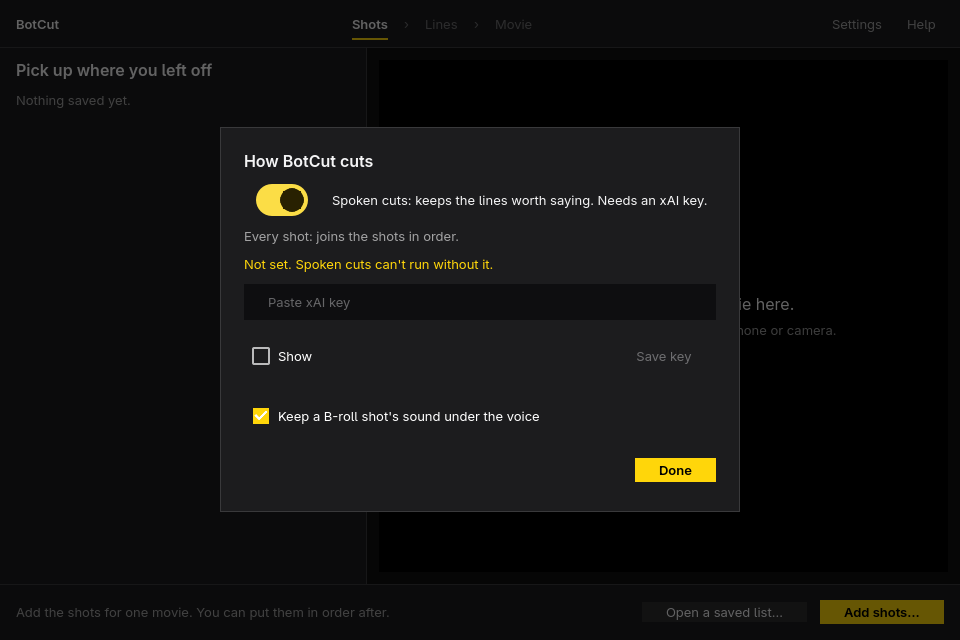
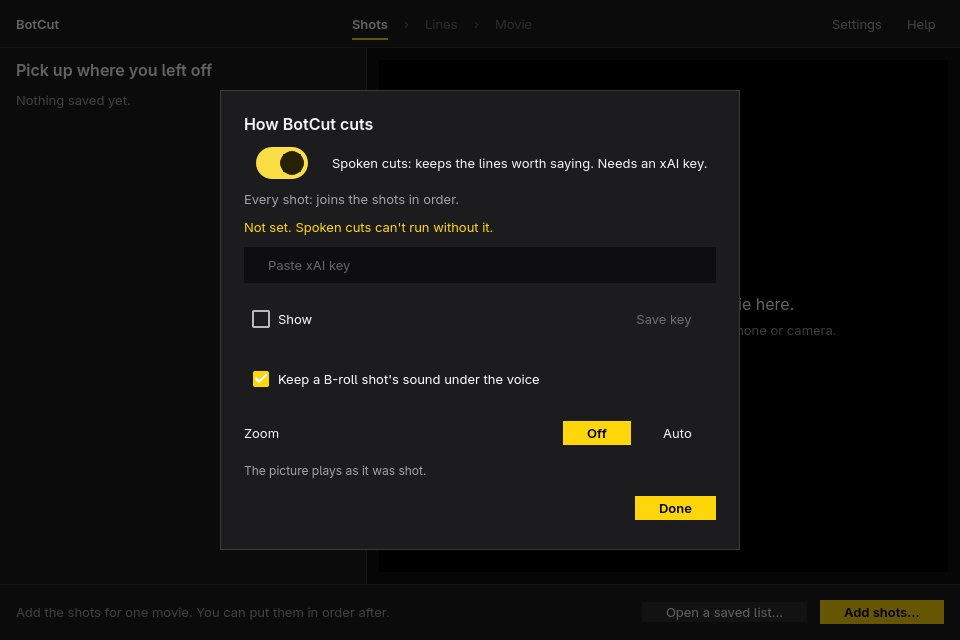
Say what changed: second cameras, Auto zoom, and renders that reuse their pieces.

diff --git a/cli/README.md b/cli/README.md
@@ -8,11 +8,21 @@ uv run botcut-cli run a.mp4 b.mp4 c.mp4 --out out/
 uv run botcut-cli run shots.txt --out out/ --mode assemble
 ```
 
+The package needs `numpy` and `opencv-python-headless` beside `requests`. `uv` installs them on the first run; a `botcut-cli` installed some other way has to be installed again.
+
 `--mode speech` (the default) keeps the moments that match `--intent`. The default intent keeps each moment, drops flubs and true retakes, and keeps a beat that appears once. Wording about repeated takes uses the retake prompt instead. `--decide` writes `cuts.json` and stops before ffmpeg. `botcut-cli render out/` encodes after a line is restored. `--mode assemble` keeps every file from start to end, in the order given, and does not call speech-to-text or the model. Use it for riding and any clip that should appear even when nobody is talking.
 
 `--b-roll-file PATH` marks one of the files as B-roll. Give it once per file. A B-roll file is not transcribed and never becomes a line. It is sliced into beats of one to four seconds at its scene changes, one still is taken per beat, and the model lays runs over the spoken lines the way an editor would: a run starts on a beat and goes on for 3 to 12 seconds over one or more consecutive kept lines, ending on a line, to hide a cut, show what the words describe, or rest the viewer. It sees the movie line, every line with its length, where the cuts fall, and a still per beat. It returns beat and line ids, a reason of a few words per run, and one or two sentences for the person. The first and last kept lines stay on the speaker, runs never sit back to back, and beats go up so the footage moves forward. The voice always keeps playing. `--b-roll-sound mix` (the default) plays the B-roll sound at a quarter under the voice. `--b-roll-sound voice` plays the voice alone. A B-roll file with no sound track is fine. A spoken file without one is still refused. A card cannot be B-roll, and a `--b-roll-file` that is not one of the files stops the run. `--mode assemble` ignores the mark, because it plays every file in order with its own sound.
 
-A single `.txt` argument is a shot list, one path per line. A line that starts with `b-roll ` marks that file. Blank lines and `#` comments are skipped.
+### A second camera
+
+Two files that filmed the same take are two cameras on it. `run` finds them itself: a later file that heard the same sound as an earlier one for at least half its length is that shot's second camera. `--angle-file PATH` marks one by hand, once per file, and is believed on a weaker match; a marked file that matches no shot stops the run with "Could not line up". The first file is nobody's second camera, and a file is B-roll or a second camera, not both.
+
+The two are lined up by sound, in `sync.py`, with no model: the loudness of each a hundred times a second gives the shift to a hundredth of a second, the waveforms near it give the rest, and a camera that runs a little slow is followed across a long take. What was found is kept in `out/work/cameras.json`. A second camera is not transcribed, never becomes a line, and is never heard. Its clip row in `cuts.json` carries `"role": "angle"`, `of` (the shot it belongs to), `offset` and `drift` (a moment `t` of that shot is at `t + offset + drift * t` in this file), and `view` when the model was shown a still of each camera and said which is `wide`, `close`, or `side`.
+
+Where the picture changes is decided by rule in `angles.py` and written as `angles`, runs of lines like the B-roll runs: `{clip, of, line, through, reason, still}`. The view changes only between lines, only after it has been held, and only to a camera that was running for the whole line: at a jump cut (`hides a cut`), at the first line of a beat, on a line named in `close` when one camera is the close view, and after a long hold at the end of a sentence. It is worked out again on every `render`, so a line dropped later still has its jump hidden. `cameras` holds what was asked for and is kept: `pace` (`calm` holds 6 seconds and changes after 30, `normal` 4 and 18, `busy` 2.5 and 10), `favor` (the camera to stay on most), `stay` (line ids held on the first camera), and `off`. `revise` returns `cameras` (`same`, `calm`, `normal`, `busy`, `off`) and `favor`. B-roll over a line wins the picture from the second camera. `angles_reply` is one sentence about what was done.
+
+A single `.txt` argument is a shot list, one path per line. A line that starts with `b-roll ` marks that file, and one that starts with `angle ` marks a second camera. Blank lines and `#` comments are skipped.
 
 `out/cuts.json` is the cut list. A B-roll clip row carries `"role": "broll"`, and a cover is a run: `{clip, line, through, start, end, reason, still}`, the first and last line ids, the window inside the B-roll file, the model's reason, and the starting beat's still. `covers_reply` is the model's sentence about what it laid. `revise` sees the beats and the runs and returns the full list of runs to keep. `out/rough_cut.mp4` is the listening render. Word timestamps are cached at `out/work/<i>-<stem>.<stt>.words.json`. An older `out/work/<i>-<stem>.words.json` still counts as an xAI cache hit. Beats are cached at `out/work/<i>-<stem>.beats.json`. A second run prints `cache hit` and does not call speech-to-text again.
 
@@ -22,7 +32,7 @@ uv run botcut-cli run a.mp4 --out out/ --max-pause 0.8 --no-snap
 uv sync --extra local
 ```
 
-`--stt` is `xai` (default) or `local`. Local transcription is faster-whisper on CPU int8 and needs `uv sync --extra local`. `--max-pause` (default `0.8`) splits a kept range when a silence inside it is longer than that. `--no-snap` leaves the padded edges where they are. Otherwise an edge that lands in silence moves to 0.10 s before speech or 0.15 s after it, and a snap that would leave less than 0.3 s is skipped.
+`--stt` is `xai` (default) or `local`. Local transcription is faster-whisper on CPU int8 and needs `uv sync --extra local`. `--max-pause` (default `0.8`) splits a kept range when a silence inside it is longer than that. A silence is sound under -35 dB, or, in a shot with more going on behind the voice, under 8 dB above that shot's own quiet end, and never within 12 dB of the voice. `--no-snap` leaves the padded edges where they are. Otherwise an edge that lands in silence moves to 0.10 s before speech or 0.15 s after it, and a snap that would leave less than 0.3 s is skipped.
 
 ## Environment
 
@@ -36,7 +46,11 @@ uv sync --extra local
 
 Speech-to-text is `grok-voice-transcribe-2.0` with filler words kept. Only the sound is sent: each shot's audio is written to `out/work/<n>-<name>.flac` at 16 kHz mono, and that file is what is uploaded. The model chooses utterance ids. It does not choose timestamps. One JPEG from the middle of each line is sent with the transcript, and stored under `out/work/stills/`. A missed frame does not stop the cut. The reason may mention the picture. A dropped connection, a timeout, or a brief server error is tried again. A rejected key or body is not.
 
-A line can also be cut inside. `word_cuts` finds filler sounds (um, uh, er, hmm) and a phrase of one to three words said twice in a row, and works out the seconds each spans from the word times, leaving 40 ms of air on each side and skipping anything under 0.15 seconds. The model is shown them by number on the line, `{cuts: 0="um", 1="we were"}`, and returns the numbers to take for each line it keeps. Every cut on offer is written to the line in `cuts.json` as `cuts: [{from, through, start, end, reason, cut}]`, where `cut` says whether it is taken, so the window can flip one and `render` applies it. `revise` returns `fillers`: `cut` takes them all, `keep` leaves them all, `same` changes none. Kept neighbors in the same clip merge when the gap before padding is under 1 second. Each range is then padded by 0.25 seconds before and 0.40 seconds after, and clamped to the clip. The later utterance's reason is the one stored on a merged range. The sound is cleaned and leveled on every render: each spoken shot is measured once (`work/<n>-<name>.loudness.json`) and given the gain that matches it to the others, by at most +20 dB or -12 dB; the joined sound goes through `highpass=f=70,afftdn=nr=8:nf=-50:tn=1`; and a first pass with no picture measures it so `loudnorm` can set -16 LUFS, -1.5 dBTP with one linear gain. A B-roll shot's own sound is not matched. It stays a bed at a quarter of its level. A cut too quiet to measure is cleaned and left at its own level. The rough cut keeps the camera level, fades up from black, and fades out to black, and joins stay 20 ms inside a file and 120 ms across a dip unless `--scene-transition off`. The app remembers that choice for every movie.
+A line can also be cut inside. Besides the cuts on offer below, the model returns `trim` for a line it keeps: words copied from the line that should come out, such as "you know" or the abandoned start of a thought. They are found in the line, timed from the word times, and written among the line's `cuts` with reason `trimmed` and `cut: true`. Words that are not in the line, that are most of it, or that take half of a cut already on offer, are left alone. A piece under 0.6 seconds with nobody speaking in it, like the padding in front of a line whose first "um" was cut, is left out of the movie.
+
+`word_cuts` finds filler sounds (um, uh, er, hmm) and a phrase of one to three words said twice in a row, and works out the seconds each spans from the word times, leaving 40 ms of air on each side and skipping anything under 0.15 seconds. The model is shown them by number on the line, `{cuts: 0="um", 1="we were"}`, and returns the numbers to take for each line it keeps. Every cut on offer is written to the line in `cuts.json` as `cuts: [{from, through, start, end, reason, cut}]`, where `cut` says whether it is taken, so the window can flip one and `render` applies it. `revise` returns `fillers`: `cut` takes them all, `keep` leaves them all, `same` changes none. Kept neighbors in the same clip merge when the gap before padding is under 1 second. Each range is then padded by 0.25 seconds before and 0.40 seconds after, and clamped to the clip. The later utterance's reason is the one stored on a merged range. The sound is cleaned and leveled on every render: each spoken shot is measured once (`work/<n>-<name>.loudness.json`) and given the gain that matches it to the others, by at most +20 dB or -12 dB; the joined sound goes through `highpass=f=70,afftdn=nr=8:nf=-50:tn=1`; and a first pass with no picture measures it so `loudnorm` can set -16 LUFS, -1.5 dBTP with one linear gain. A B-roll shot's own sound is not matched. It stays a bed at a quarter of its level. A cut too quiet to measure is cleaned and left at its own level. The rough cut keeps the camera level, fades up from black, and fades out to black. A join inside a file is a crossfade: each side reaches 12 ms into the other. Across a dip the sound fades 120 ms down and up, unless `--scene-transition off`.
+
+The movie is made in pieces. The sound is put together in one pass, and each piece of picture is encoded to its own file under `out/work/pieces`, named by what it shows, and joined without encoding again. Every piece is a whole number of frames and starts on a frame of its source, so picture and sound stay together across any number of joins. A later `render` of the same cut makes only the pieces that changed and prints `Made 1 of 80 pieces again.` A piece no render has used for two days is removed. `BOTCUT_RENDER=graph` renders the older way, as one filter graph in one encode. The app remembers that choice for every movie.
 
 A dropped line that is not a near-duplicate of a kept line prints `unique? id N: ...`. The line stays dropped.
 
@@ -48,7 +62,9 @@ A name or a product word is where a transcript goes wrong: "Telnyx" comes back a
 
 A cut ends with one line saying where the time went, longest first: `Took 6m39s: render 4m45s, choose 1m16s, stills 28s, listen 9s.` The seconds for every stage are kept in `out/work/seconds.json`: `read`, `beats`, `listen` (audio, transcript, silences), `stills` (stills and the speaker's face), `outline`, `choose`, `proof`, `covers`, `level`, and `render`. A later `render` of the same cut replaces its own stages there and leaves the rest.
 
-A cut asks the model three things, in order. First it reads every line of the shoot at once, as words only, and returns an outline: the beats, the groups of lines that say the same thing however far apart, one line the movie could open on, and the length the movie sentence asks for ("a ninety second update" is 90; no length is 0). A shoot under six lines has no outline. Then it chooses lines, as before, and each request is shown the beats, the retake groups that touch its lines with the words of the takes it cannot see, and, when a length was asked for, its share of it. When there are more stills than one request carries, retakes get them first. Last it reads the cut back as a viewer gets it: kept lines with their lengths, a `— cut —` row at each join, dropped lines in place, and what `check.py` noticed. It returns changes, not a new list: ids to drop, ids to put back, cut numbers to take, and one or two sentences that open the chat (`cut_reply`). A line it does not name stays as it was. With no length asked for, a proof that would take out more than 30 percent of the kept seconds is not applied. If the outline or the proof cannot be had, the cut goes on without it and prints `Cutting without an outline` or `Kept the cut as first made`.
+A shoot of 150 lines or fewer is read and cut in one request: the outline below and the keep list come back together, and the stage is `choose`. `BOTCUT_FOLD=0` keeps the two apart. A longer shoot is outlined while its stills are read, then chosen in parts.
+
+Otherwise a cut asks the model three things, in order. First it reads every line of the shoot at once, as words only, and returns an outline: the beats, the groups of lines that say the same thing however far apart, one line the movie could open on, and the length the movie sentence asks for ("a ninety second update" is 90; no length is 0). A shoot under six lines has no outline. Then it chooses lines, as before, and each request is shown the beats, the retake groups that touch its lines with the words of the takes it cannot see, and, when a length was asked for, its share of it. When there are more stills than one request carries, retakes get them first. Last it reads the cut back as a viewer gets it: kept lines with their lengths, a `— cut —` row at each join, dropped lines in place, and what `check.py` noticed. It returns changes, not a new list: ids to drop, ids to put back, cut numbers to take, and one or two sentences that open the chat (`cut_reply`). A line it does not name stays as it was. With no length asked for, a proof that would take out more than 30 percent of the kept seconds is not applied. If the outline or the proof cannot be had, the cut goes on without it and prints `Cutting without an outline` or `Kept the cut as first made`.
 
 The proof may also name one kept line for the movie to open on. `cuts.json` then carries `hook`, that line's id, and its piece is first in `segments` with `"hook": true`. The line leaves its place; nothing else moves, and `lines` stays in the order they were said. B-roll never runs across it, captions follow the new order, and the short is measured in the body of the movie. Dropping that line, or **Put it back** on its row, removes `hook`.
 
@@ -96,7 +112,9 @@ uv run botcut-cli short out/cuts.json
 
 ### Zoom
 
-`run` and `render` take `--zoom off|cuts|push|lines`. The default is `off`: every piece plays as shot. The other three move in on the speaker's face, and leave B-roll, cards, rotated shots, and shots under 1080 lines as shot.
+`run` and `render` take `--zoom off|auto|cuts|push|lines`. The default is `off`: every piece plays as shot. The others move in on the speaker's face, and leave B-roll, a second camera, cards, rotated shots, and shots under 1080 lines as shot. The face is found in the still of each line by a small detector that runs on this machine (`botcut/data`), kept in `work/faces.json`, and the nearest one in time is what a piece is framed on.
+
+- `auto`: the three below together, as two framings, wide and a fifth closer. The picture goes from one to the other at a join between lines once it has been held 4 seconds; a line named in `close` is tight; a wide stretch of 8 seconds or more is given the slow push; and the speaker comes back wide from B-roll, another camera, or another shot. This is what the window's **Auto** is.
 
 - `cuts`: across a join inside one shot the picture goes from wide to 1/1.12 of the frame, or back, so a jump cut reads as a change of shot. The framing never changes at a cut inside a line, such as an "um" taken out, and is held at least 4 seconds. A cut to another shot starts wide.
 - `push`: each stretch between joins moves in by half a percent a second, up to 8 percent, toward the face, and starts wide again at the next join between lines. Across a cut inside a line it carries on from where it was. The picture is resampled between pixels on every frame (`perspective`, `eval=frame`), so the move does not step. It is the slowest to render: about 2.4 times the plain render on 4K.
@@ -115,8 +133,10 @@ uv run botcut-cli bench list
 
 `bench save` keeps a finished cut as a case under `~/.local/share/botcut/bench/<name>/`: its `cuts.json` as you left it, the word and silence caches, and the line stills. It takes a movie, a project folder, or a `cuts.json`. Save a case after you have dropped, kept, and flipped what the model got wrong, because that list is what the model is scored against.
 
-`bench run` builds the lines again from the saved words, asks the model to choose, and compares. Lines are weighed by their length. `precision` is the share of the seconds the model kept that you kept too. `recall` is the share of the seconds you kept that the model kept. `flipped` counts lines kept by one and not the other. `cuts` counts the cuts inside lines, on lines both kept, where the model and you agree. `flags` counts what a viewer would notice in the model's cut, with yours beside it for scale: `twice` is a point kept twice, `leans` is a line that opens on and, but, so, or because with the line before it dropped, and `flash` is a piece shorter than 0.6 seconds. No model is asked for these. One row per run is appended to `bench/history.jsonl` with the model, a short hash of the prompt wording, and every case's numbers, and the Overall line says what the last run over the same cases scored.
+`bench run` builds the lines again from the saved words, asks the model to choose, and compares. Lines are weighed by their length. `precision` is the share of the seconds the model kept that you kept too. `recall` is the share of the seconds you kept that the model kept. `flipped` counts lines kept by one and not the other. `cuts` counts the cuts inside lines, on lines both kept, where the model and you agree. `jumps` counts the joins that show as a jump when nothing hides them: two pieces of the same shot with something taken out between lines. `flags` counts what a viewer would notice in the model's cut, with yours beside it for scale: `twice` is a point kept twice, `leans` is a line that opens on and, but, so, or because with the line before it dropped, and `flash` is a piece shorter than 0.6 seconds. No model is asked for these. One row per run is appended to `bench/history.jsonl` with the model, a short hash of the prompt wording, and every case's numbers, and the Overall line says what the last run over the same cases scored.
 
 Each real answer is saved under the case's `replies/`, filed by the exact question that got it. `--replay` reads those and calls nothing. A prompt that has changed is a different question, so a replay of it stops with "The prompt changed since it was recorded" and needs a real run.
+
+Every cut also carries `review`, the few spots worth a person's look, most telling first: `{kind, ids, text}` for two kept lines that say the same thing, a line that leans on a dropped one, a line dropped though nothing like it is kept, and a piece on screen for a blink, and one row saying how many jump cuts show when no zoom or second camera hides them. It is written again on every render.
 
 `run` prints `Used N tokens in M requests.` and stores the counts in `cuts.json` as `usage`. Set `BOTCUT_PRICE_IN` and `BOTCUT_PRICE_OUT`, in dollars per million tokens, to add the cost.

diff --git a/README.md b/README.md
@@ -49,17 +49,19 @@ Handles catch on neighbouring ranges and the playhead.
 
 The window is one plan. The steps are Shots, Lines, and Movie. There is no sidebar. Drop videos or a folder onto the picture, or press **Add shots…**. Files added together are ordered oldest first, from the file's creation time. The selected shot plays in the picture. **Move up** and **Move down** show on the current row. **Remove** takes a file out. A missing file reads **File missing**, and **Cut** stays off until you remove it.
 
-**Open a saved list…** is in the action bar at the bottom when the plan is empty. Under a shot list the actions are **Add shots…**, **Add a title card…**, and **Save list…**. **Save list…** writes the order, the cut mode, the movie line, which shots are B-roll, and any lines. Dropping that file puts them back. **Lists**, at the left of the steps, goes back to that home. A hand trim that is not in a file yet asks before it leaves.
+**Open a saved list…** is in the action bar at the bottom when the plan is empty. Under a shot list the actions are **Add shots…**, **Add a title card…**, and **Save list…**. **Save list…** writes the order, the cut mode, the movie line, which shots are B-roll or a second camera, and any lines. Dropping that file puts them back. **Lists**, at the left of the steps, goes back to that home. A hand trim that is not in a file yet asks before it leaves.
 
 Spoken cuts are on by default. The shot list then holds one sentence for the movie and a pace that reads as a sentence, from **Open · keeps long pauses** to **Frenzied · cuts every breath**. **Add a title card…** opens a dialog. The field starts empty. The placeholder is **Words on the card**. **Put it first** or **Put it last** adds a still as a shot you can move or remove.
 
 **B-roll**, on the selected row, marks that file as cover footage, and **Shot** marks it back. A B-roll file is not transcribed. The model lays it the way an editor would: in runs of three to twelve seconds over one or more lines, to hide a cut, to show what the words describe, or to rest the viewer, and never over the first line or the last. It says what it laid and why in the chat, and "less B-roll" or "none over the opening" there comes back as a change to apply. The first line of a run shows a still from the footage, the file, the run's length, and the reason; the lines under it read **B-roll goes on**. **Remove B-roll** on any of them takes the run off. Play on a line, or the kept lines in a row, shows the footage in the picture, across the cuts inside the run.
 
-**Cut** makes the movie in one press: it transcribes the shots, reads the whole shoot, keeps the lines worth saying, reads the cut back and fixes what trips, lays the B-roll, renders, and saves the result in `~/Videos/BotCut` (set `BOTCUT_MOVIES_DIR` for another folder). A length named in the movie sentence, like "a ninety second update", is the length it cuts to. The chat opens with what the editor made of the cut. It may move one line to the front to open the movie; that row reads **Opens the movie**, and **Put it back** returns it to its place. The window opens on the movie. **Lines**, in the steps at the top, is where you change it: **Drop** or **Keep** a line, and the filled button becomes **Update movie**, which renders over the same file. Clicking a line shows that moment in the picture; the timeline under the picture only shows where playback is, and a click on it seeks. Under the lines is a chat. Ask for a change, and BotCut replies with what it would do: lines dropped or put back, a new movie sentence, a new pace, or the fade. Nothing changes until you press **Apply** or answer yes. **Leave it** drops the proposal. After a change lands, **Undo** on that turn puts the previous cut back. The command is `botcut-cli revise --propose`, then `revise --apply`. Spoken cuts need an xAI key. **Settings** stores that key in the keyring and never shows it again. Turning spoken cuts off keeps every file, in this order, and does not call the model.
+**Second camera**, on the selected row, marks that file as another camera on a take a file above it filmed, and **Shot** marks it back. You rarely need it: two files that heard the same take are found by their sound when you press **Cut**, and the second then reads **Second camera** in the list. A second camera is not transcribed and its sound is never played. The picture goes to it at a jump cut, at a new beat, on a line that carries the point, or after a long hold on one view, and never inside a line. The line where it changes shows a still from that camera and the reason, and the lines under it read **Second camera goes on**. **Stay on main** on any of them keeps that stretch on the first camera. In the chat, "cut between the cameras less" or "stay on the wide" comes back as a change to apply.
+
+**Cut** makes the movie in one press: it transcribes the shots, reads the whole shoot, keeps the lines worth saying, reads the cut back and fixes what trips, lays the B-roll, renders, and saves the result in `~/Videos/BotCut` (set `BOTCUT_MOVIES_DIR` for another folder). A length named in the movie sentence, like "a ninety second update", is the length it cuts to. The chat opens with what the editor made of the cut, and under it the few spots worth a look, such as two lines that say the same thing or a line dropped though it is said nowhere else. A click on one goes to that line. It may move one line to the front to open the movie; that row reads **Opens the movie**, and **Put it back** returns it to its place. The window opens on the movie. **Lines**, in the steps at the top, is where you change it: **Drop** or **Keep** a line, and the filled button becomes **Update movie**, which renders over the same file and only makes the pieces that changed. Clicking a line shows that moment in the picture; the timeline under the picture only shows where playback is, and a click on it seeks. Under the lines is a chat. Ask for a change, and BotCut replies with what it would do: lines dropped or put back, a new movie sentence, a new pace, or the fade. Nothing changes until you press **Apply** or answer yes. **Leave it** drops the proposal. After a change lands, **Undo** on that turn puts the previous cut back. The command is `botcut-cli revise --propose`, then `revise --apply`. Spoken cuts need an xAI key. **Settings** stores that key in the keyring and never shows it again. Turning spoken cuts off keeps every file, in this order, and does not call the model.
 
 On Movie the filmstrip is the trim. It is one block per kept range, and a handle edits that range in its own file. After a handle moves, the button reads **Update movie**. **Show the file**, **Captions**, **Vertical short**, and **Save a copy…** sit beside the sentence once the movie is up to date. Captions and the short land beside the movie. Each cut is a project under `~/.local/share/botcut/projects`, so a movie opened again from Recents still has its lines and can be changed. The command-line jobs are `botcut-cli run`, `render`, `revise`, `card`, `captions`, and `short`. See `cli/README.md`.
 
-**Settings** is a dialog: spoken cuts, the xAI key, whether a B-roll shot's sound plays under the voice, and **Zoom**. Zoom is off until you choose one: **On cuts** goes a little closer at a cut between lines so the jump reads as a change of shot, **Slow push** moves in slowly on the speaker between cuts, and **Key lines** goes closer on the few lines that carry the point. Changing it makes the filled button **Update movie**. Fade is the switch under the picture. **Help** lists the shortcuts above. Quitting during a job, or with an unsaved movie or trim, asks first. **Cut again** asks before it replaces the line list.
+**Settings** is a dialog: spoken cuts, the xAI key, whether a B-roll shot's sound plays under the voice, and **Zoom**. Zoom is **Off** until you choose **Auto**. Auto goes closer at a cut between lines so the jump reads as a change of shot, goes closer on the few lines that carry the point, moves in slowly on a long wide stretch, and stays on a speaker who moves. Changing it makes the filled button **Update movie**. Fade is the switch under the picture. **Help** lists the shortcuts above. Quitting during a job, or with an unsaved movie or trim, asks first. **Cut again** asks before it replaces the line list.
 
 ## Install
 

diff --git a/CHANGELOG.md b/CHANGELOG.md
@@ -2,6 +2,22 @@
 
 User-facing changes in this fork. Dates are the days the work landed on `master`.
 
+## 2026-11-22
+
+- Two cameras on one take are cut between. Drop both files and press **Cut**: the second is found by its sound, lined up with the first to the frame, and never transcribed or heard. The picture goes to it at a jump cut, which hides the jump, at the start of a new beat, on a line that carries the point, or when one view has been on a long time. A view is held at least 4 seconds and never changes inside a line.
+- A file the cut finds to be a second camera reads **Second camera** in the shot list. **Second camera** on a selected shot marks one by hand, for a file the sound did not match strongly enough, and **Shot** puts it back. The first file is nobody's second camera.
+- A line that goes to the second camera shows a still from it and why, such as **Second camera · hides a cut**. **Stay on main** on any line of that stretch keeps it on the first camera. In the chat, "cut between the cameras less", "stay on the wide", or "one camera only" comes back as a change to apply.
+- **Zoom** in Settings is **Off** or **Auto**. Auto goes a fifth closer at a cut between lines, so a jump reads as a change of shot, and on the few lines that carry the point, and moves in slowly on a wide stretch of eight seconds or more. A zoom chosen before is Auto now.
+- The zoom follows a speaker who moves. The face is found in the still of every line, on this machine, where before it was found once per shot.
+- A flash of nobody speaking is left out. The quarter second kept in front of a line whose first "um" was cut used to play as its own piece.
+- The model can take words out of a line that were not on offer before: "you know", "I mean", the abandoned start of a thought said again in other words. It copies the words and never returns a time. They show struck through like any other cut, and a click puts them back.
+- A shot with traffic or wind behind the voice gets its own level for what counts as a pause, so its long pauses are found.
+- A join inside a shot is a crossfade of a fortieth of a second, where it used to be a fade down and a fade up with a hole between them.
+- **Update movie** only makes what changed. Each piece of picture is encoded once and kept, and the sound is put together again in one pass. On a seven minute movie, dropping one line took 22 seconds where the whole render had taken 2 minutes 22.
+- A shoot of 150 lines or fewer is read and cut in one request, where it was outlined first and cut second. A longer one is outlined while its stills are read.
+- The chat lists the few spots worth a look under the editor's sentence: two lines that say the same thing, a line that leans on a dropped one, a line dropped though it is said nowhere else, a piece on screen for a blink. A click goes to that line. With no zoom and one camera, it says how many jump cuts show.
+- `bench run` counts the joins that show as a jump, in the model's cut and in yours.
+
 ## 2026-11-21
 
 - The zoom on jump cuts is off unless you choose it. **Settings** has **Zoom**: **Off**, **On cuts**, **Slow push**, or **Key lines**. Before, every cut inside a shot flipped the framing, including the half-second pieces left by a cut "um".
